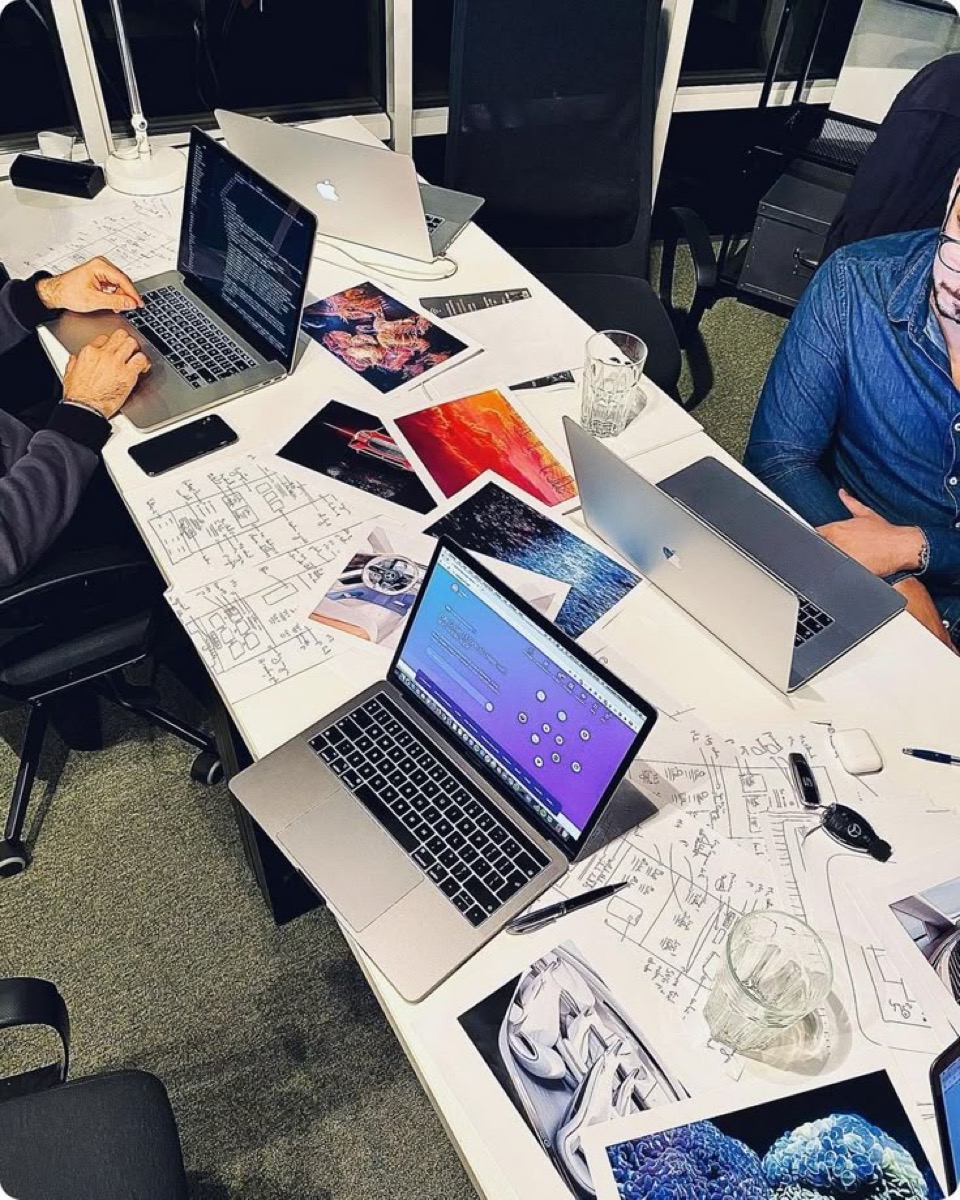
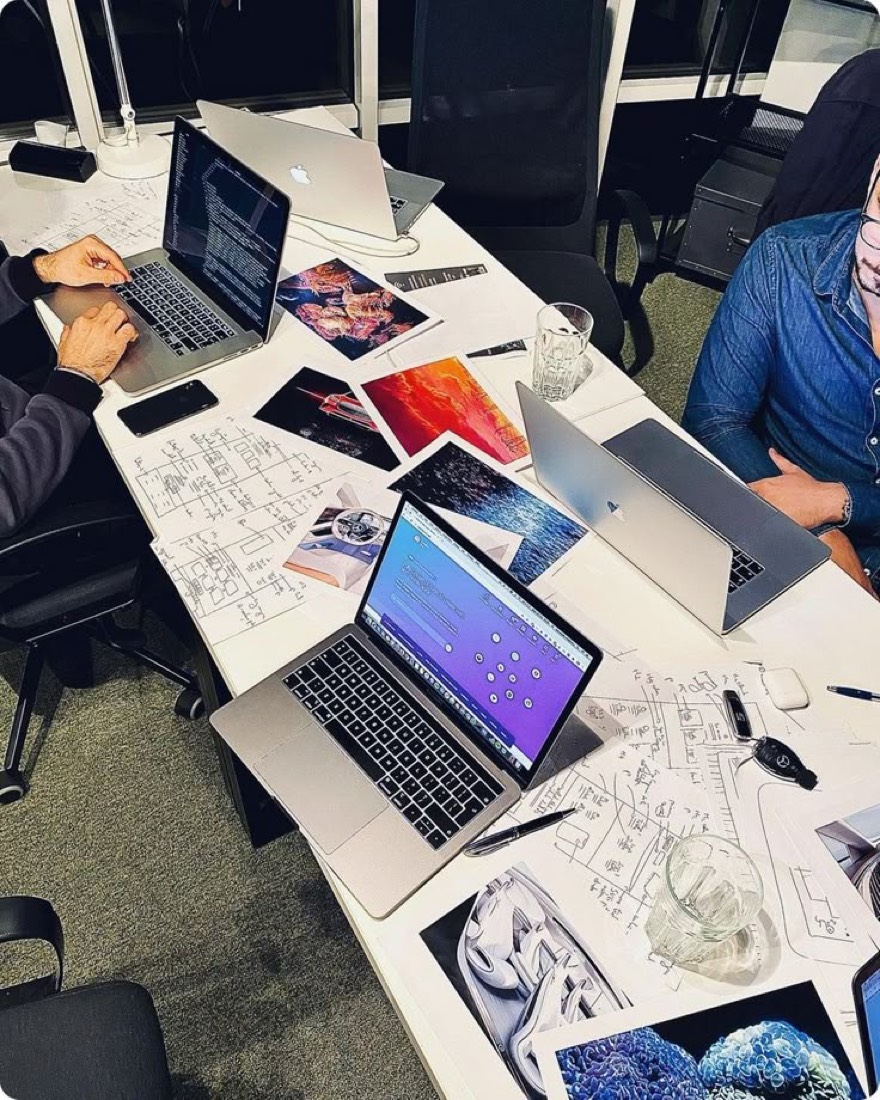
Sección Clientes: nuevo copy, foto real, categorías genéricas de agencia
- Hero de portofolio.html: "PORTAFOLIO" → "CLIENTES", "2 CASOS, HECHOS DE
  VERDAD" → "TRABAJOS DEDICADOS PARA CADA UNO", foto real de clientes en
  el fondo (antes placeholder).
- Sección de casos: título/subtítulo reescritos (menos "a la defensiva"),
  categorías reemplazadas por servicios típicos de agencia web (SEO
  Completo, Checkout para Ecommerce, Landing Pages, Mantenimiento &
  Soporte, Optimización de Velocidad) en vez de la mezcla anterior.
- Re-optimizadas con compresión real (sips -s formatOptions) las fotos
  de equipo ya subidas, no solo resize.

diff --git a/portofolio.html b/portofolio.html
@@ -113,14 +113,14 @@
                     <div class="col col-xl-10 mb-3">
                         <div class="d-flex flex-column gap-5">
                             <h2 class="fw-bold fst-italic scrollanimation animated fadeInDown adr-9">
-                                PORTAFOLIO</h2>
+                                CLIENTES</h2>
                             <div
                                 class="d-flex flex-lg-row flex-column-reverse align-items-center justify-content-xl-between justify-content-center gap-lg-5">
                                 <img src="image/icon 6.png" class="img-fluid" alt=""
                                     style="margin-left: 8rem; margin-top: 3rem;">
                                 <h2
                                     class="fw-normal fst-italic text-end scrollanimation animated fadeInDown adr-9 adl-2">
-                                    2 CASOS, <br> HECHOS DE VERDAD</h2>
+                                    TRABAJOS DEDICADOS <br> PARA CADA UNO</h2>
                             </div>
                             <button class="btn-play ms-auto" type="button" data-bs-toggle="modal"
                                 data-bs-target="#e119">
@@ -266,31 +266,32 @@
                                 <div class="d-flex flex-row align-items-center gap-2">
                                     <div class="border-bottom border-4 border-accent mb-5" style="width: 100px;"></div>
                                     <h3 class="scrollanimation animated fadeInDown adr-9">
-                                        Dos Proyectos Reales, de Punta a Punta
+                                        Casos de Éxito con Clientes que Nos Enorgullecen
                                     </h3>
                                 </div>
                                 <p class="ms-xl-5 ps-xl-5 scrollanimation animated fadeInDown adr-9 adl-2"
                                     style="max-width: 73%;">
-                                    Sin casos inventados ni cifras de relleno: un sitio de cliente real en
-                                    producción, y mi propio portafolio diseñado y programado por mí.
+                                    Trabajos enfocados en la eficiencia, con una visión de diseño única para
+                                    cada cliente. No queremos que tu página sea igual a la de todos —
+                                    adaptamos diseño y funcionalidad a tu negocio.
                                 </p>
                             </div>
                         </div>
                         <div class="col col-lg-5 mb-3">
                             <div class="d-flex flex-xl-row flex-column justify-content-lg-end gap-2 mb-2">
-                                <span class="w-max-content small-text btn-accent-2 active">Landing + Contacto</span>
-                                <span class="w-max-content small-text btn-accent-2">Servicio con Agenda</span>
+                                <span class="w-max-content small-text btn-accent-2 active">Diseño Web a Medida</span>
+                                <span class="w-max-content small-text btn-accent-2">SEO Completo</span>
                             </div>
                             <div class="d-flex flex-xl-row flex-column justify-content-xl-end gap-2 mb-2">
-                                <span class="w-max-content small-text btn-accent-2">Diseño UI/UX</span>
-                                <span class="w-max-content small-text btn-accent-2">Desarrollo Front-End</span>
+                                <span class="w-max-content small-text btn-accent-2">Checkout para Ecommerce</span>
+                                <span class="w-max-content small-text btn-accent-2">Landing Pages</span>
                             </div>
                             <div class="d-flex flex-xl-row flex-column justify-content-xl-end gap-2 mb-2">
-                                <span class="w-max-content small-text btn-accent-2">Integración de Agenda</span>
-                                <span class="w-max-content small-text btn-accent-2">SEO Básico</span>
+                                <span class="w-max-content small-text btn-accent-2">Mantenimiento & Soporte</span>
+                                <span class="w-max-content small-text btn-accent-2">Optimización de Velocidad</span>
                             </div>
                             <div class="d-flex flex-xl-row flex-column justify-content-lg-end gap-2">
-                                <span class="w-max-content small-text btn-accent-2">Dominio Propio</span>
+                                <span class="w-max-content small-text btn-accent-2">Integración de Agenda</span>
                             </div>
                         </div>
                     </div>

diff --git a/css/style.css b/css/style.css
@@ -840,7 +840,7 @@ main section:first-of-type {
 }
 
 .bg-image-portofolio {
-    background: url(../image/dummy-img-1920x1280.jpg) no-repeat 27% 40%, url(../image/icon\ 1.png) no-repeat 106% 15%, url(../image/Image\ Background.png) no-repeat center 0%;
+    background: url(../image/portfolio/clientes-hero.jpg) no-repeat 27% 40%, url(../image/icon\ 1.png) no-repeat 106% 15%, url(../image/Image\ Background.png) no-repeat center 0%;
     background-size:
         384px auto,
         207px auto,
@@ -4956,7 +4956,7 @@ a {
     }
 
     .bg-image-portofolio {
-        background: url(../image/dummy-img-1920x1280.jpg) no-repeat 27% 35%, url(../image/icon\ 1.png) no-repeat 106% 11%, url(../image/Image\ Background.png) no-repeat center 0%;
+        background: url(../image/portfolio/clientes-hero.jpg) no-repeat 27% 35%, url(../image/icon\ 1.png) no-repeat 106% 11%, url(../image/Image\ Background.png) no-repeat center 0%;
         background-size:
             384px auto,
             207px auto,
@@ -5093,7 +5093,7 @@ a {
     }
 
     .bg-image-portofolio {
-        background: url(../image/dummy-img-1920x1280.jpg) no-repeat 27% 35%, url(../image/icon\ 1.png) no-repeat 10% 11%, url(../image/Image\ Background.png) no-repeat center 0%;
+        background: url(../image/portfolio/clientes-hero.jpg) no-repeat 27% 35%, url(../image/icon\ 1.png) no-repeat 10% 11%, url(../image/Image\ Background.png) no-repeat center 0%;
         background-size:
             250px auto,
             150px auto,
